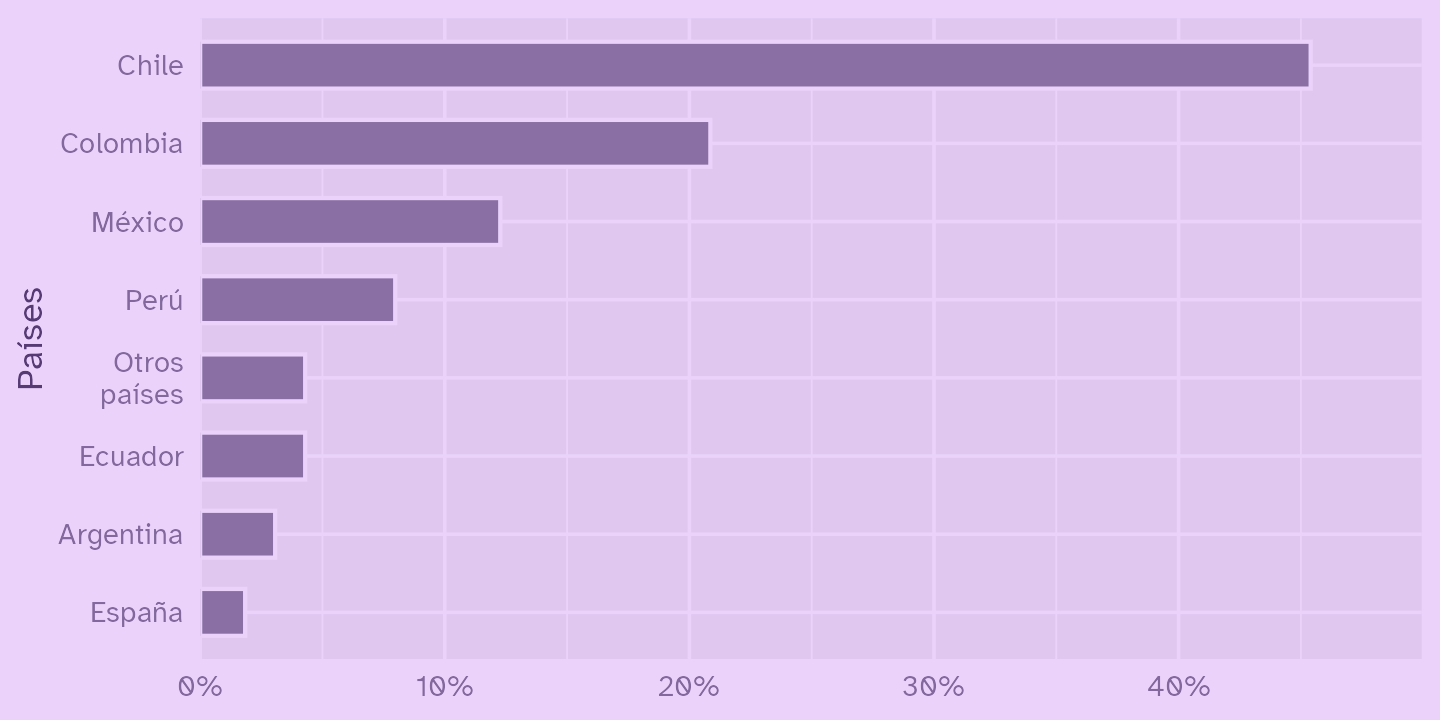
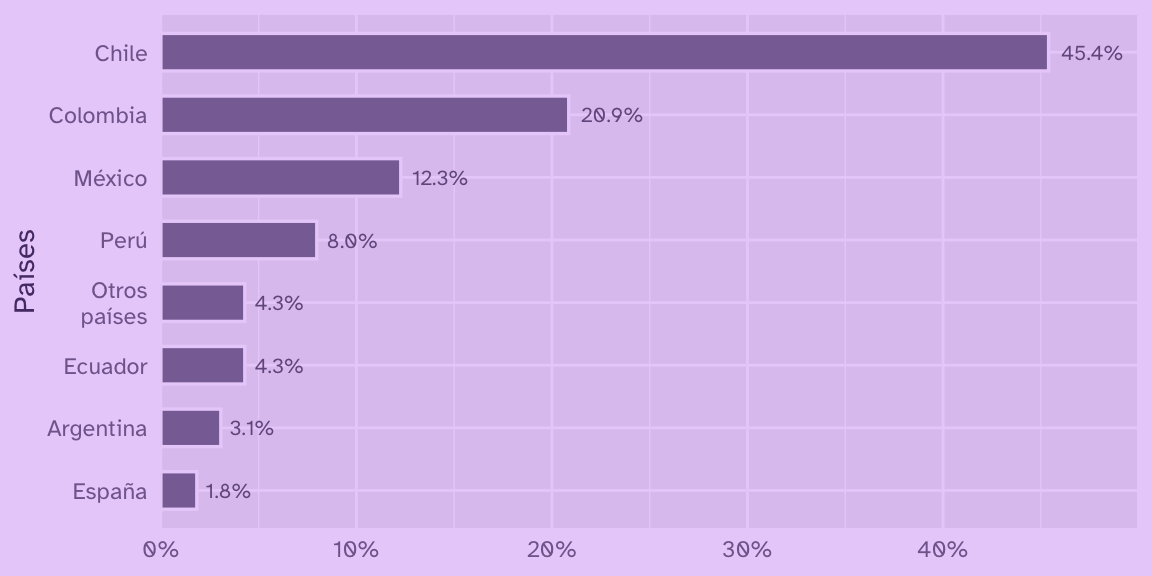
gráficos corregidos

diff --git a/content/blog/curso_r_intro_3/index.md b/content/blog/curso_r_intro_3/index.md
@@ -3,7 +3,7 @@ title: "Curso: introducción al análisis de datos con R, 3ª versión"
 subtitle: "Curso online de programación dirigido a estudiantes o profesionales de las ciencias sociales"
 excerpt: "Tercera versión del curso gratuito de introducción a R enfocado en las ciencias sociales. En este curso de cuatro sesiones aprenderemos a usar R para trabajar con datos sociales, revisando lo básico de la visualización de datos con R."
 author: Bastián Olea Herrera
-date: '2026-06-07'
+date: '2026-06-22'
 draft: false
 tags:
   - blog

diff --git a/content/clases/curso_r_intro_3/index.md b/content/clases/curso_r_intro_3/index.md
@@ -3,7 +3,7 @@ title: "Curso: introducción al análisis de datos con R, 3ª versión"
 subtitle: "Curso online de programación dirigido a estudiantes o profesionales de las ciencias sociales"
 excerpt: "Tercera versión del curso gratuito de introducción a R enfocado en las ciencias sociales. En este curso de cuatro sesiones aprenderemos a usar R para trabajar con datos sociales, revisando lo básico de la visualización de datos con R."
 author: Bastián Olea Herrera
-date: '2026-06-07'
+date: '2026-06-22'
 draft: false
 tags:
   - blog
